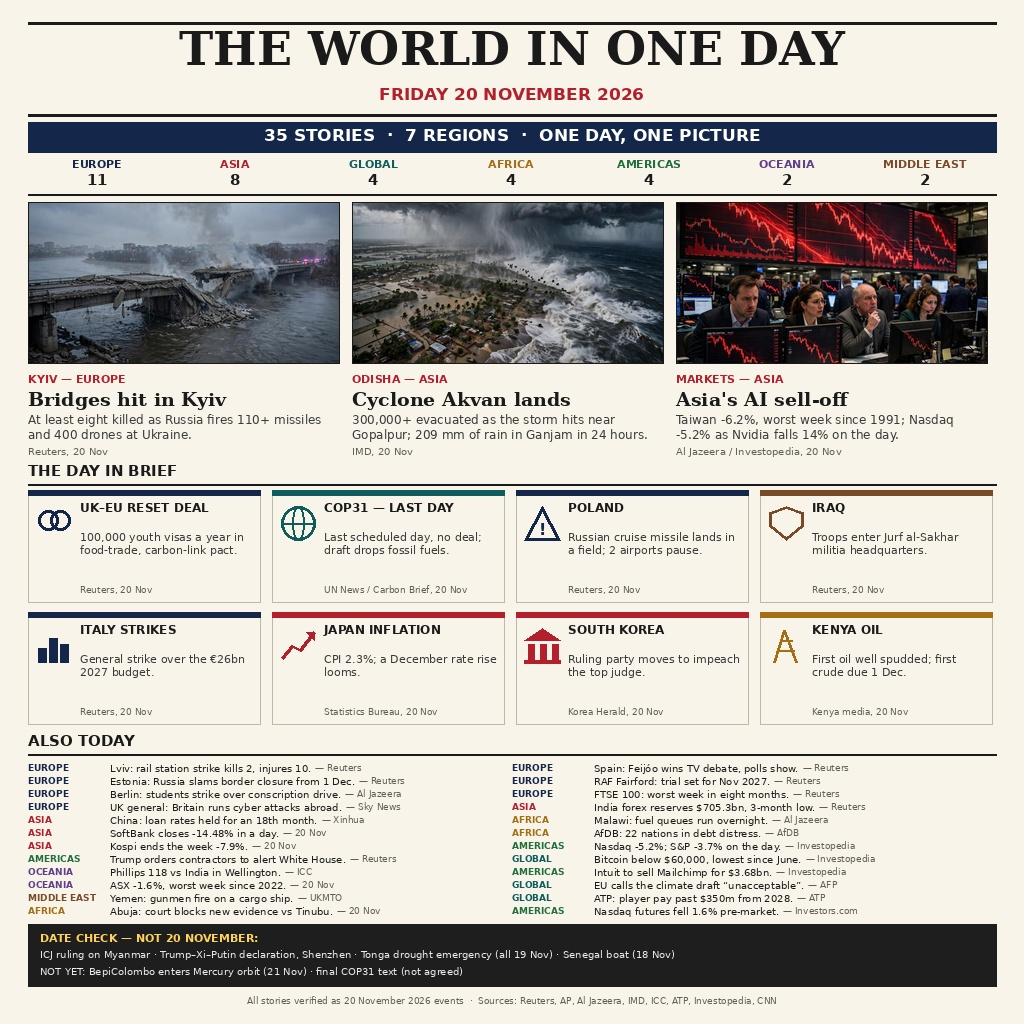
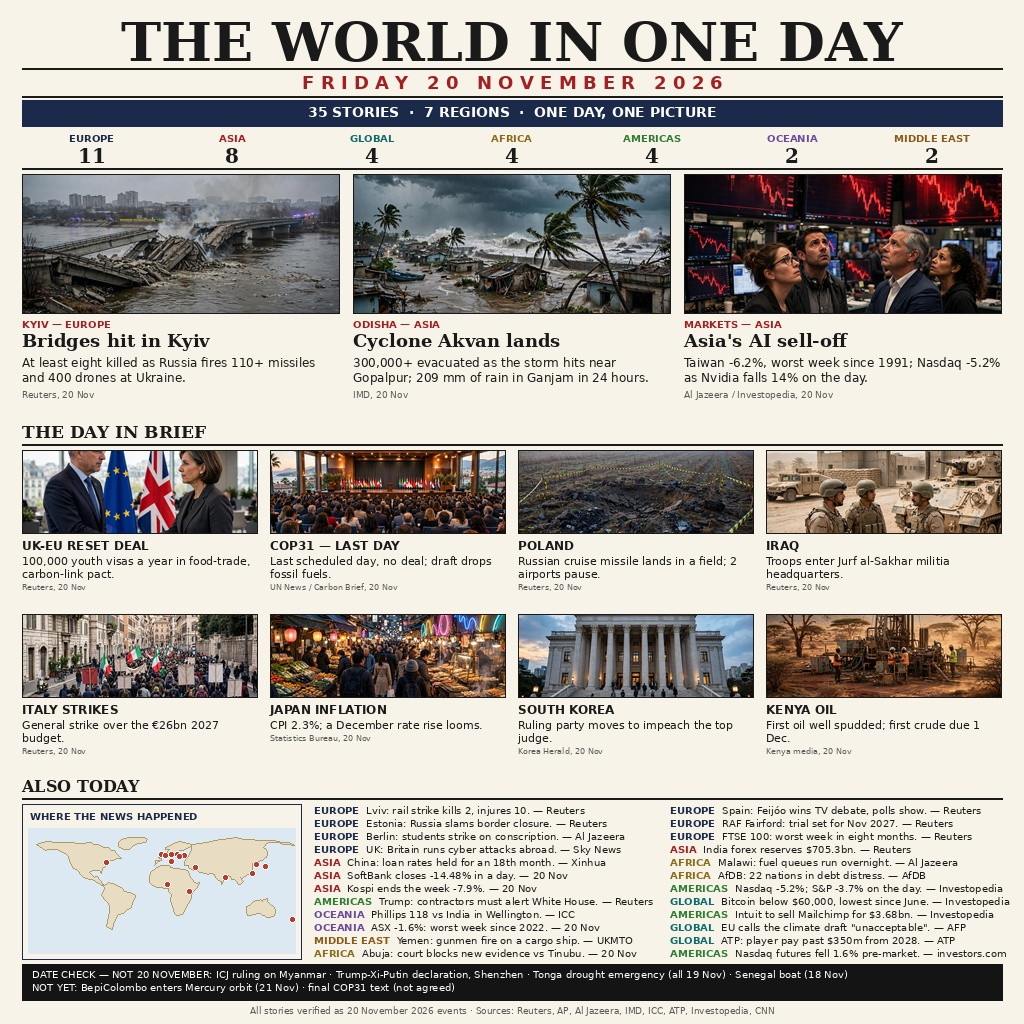
Update entry.png, main.py, and README.md (v4)

diff --git a/main.py b/main.py
@@ -1,8 +1,11 @@
 #!/usr/bin/env python3
-"""news-image-20261120 v3 — acct2 (Orochim25).
+"""news-image-20261120 v4 — acct2 (Orochim25).
 
 Copies the pre-built entry.png (in this repository's root) into
 $MAKEFUN_OUTPUT_DIR/entry.png (default /output).
+
+v4: 11 AI photographs (3 heroes + 8 grid scenes) and a world map with
+fixed lat/lon dots in the bottom-left corner; 35 verified stories.
 
 Standard library only: no third-party imports, no network.
 """
@@ -30,6 +33,11 @@ def main():
     os.makedirs(out_dir, exist_ok=True)
     dst = os.path.join(out_dir, "entry.png")
     shutil.copyfile(src, dst)
+    # Verify the copy byte-for-byte before reporting success.
+    dst_sha = hashlib.sha256(open(dst, "rb").read()).hexdigest()
+    if dst_sha != sha:
+        print("copy mismatch: %s != %s" % (dst_sha, sha), file=sys.stderr)
+        return 1
     print("wrote %s (%d bytes, sha256 %s)" % (dst, size, sha))
     return 0
 

diff --git a/README.md b/README.md
@@ -1,15 +1,13 @@
-# Friday 20 November 2026: 35 stories, 7 regions — Kyiv bridges hit, Cyclone Akvan lands, Asia's AI sell-off, UK-EU reset
+# The World in One Day — Friday 20 November 2026
 
-[![make.fun](https://make.fun/badge/news-image-20261120.svg)](https://make.fun/bounty/news-image-20261120)
+[![news-image-20261120](https://make.fun/badge/news-image-20261120.svg)](https://make.fun/bounty/news-image-20261120)
 [![rank](https://make.fun/badge/news-image-20261120/Orochim25/news-image-20261120-entry-acct2-v2/rank.svg)](https://make.fun/bounty/news-image-20261120)
 [![reward](https://make.fun/badge/news-image-20261120/Orochim25/news-image-20261120-entry-acct2-v2/reward.svg)](https://make.fun/bounty/news-image-20261120)
 
-A newspaper front page for one day: **Friday 20 November 2026, 35 verified stories from 7 regions** — Europe 11, Asia 8, Global 4, Africa 4, Americas 4, Oceania 2, Middle East 2.
+A newspaper front page picturing **35 verified stories from Friday 20 November 2026, across 7 regions** — Europe 11, Asia 8, Global 4, Africa 4, Americas 4, Oceania 2, Middle East 2.
 
-Three photographic heroes lead the page: Russian missiles hit three bridges in Kyiv (at least eight killed across Ukraine, Reuters), Cyclone Akvan makes landfall near Gopalpur with 300,000+ evacuated (IMD), and Asia's AI sell-off — Taiwan −6.2%, its worst week since 1991 (Al Jazeera). An illustrated grid and a 24-item "Also Today" list cover the rest of the day, every figure carrying its source and date.
+Three photographic heroes lead the page: bridges hit in Kyiv (at least eight killed), Cyclone Akvan's landfall near Gopalpur (300,000+ evacuated), and Asia's AI sell-off (Taiwan −6.2%, worst week since 1991). All eight "Day in Brief" scenes are AI photographs too, followed by 24 more stories and a date-check box that keeps 19 November events — and not-yet events — out of the picture.
 
-A date-check box keeps the record honest: four big stories from Thursday 19 November (the ICJ ruling on Myanmar, the Trump–Xi–Putin declaration in Shenzhen, Tonga's drought emergency, the Senegal boat) are excluded, and two things that had not happened yet — BepiColombo's Mercury orbit insertion and the final COP31 text — are not claimed.
+A small world map in the bottom-left corner, "Where the news happened", plots 16 story locations as dots at their fixed latitude/longitude coordinates — Kyiv, Gopalpur, Taipei, Seoul, Tokyo, London, Brussels, Warsaw, Rome, Nairobi, Wellington, New York, Lviv, Berlin, Abuja and Baghdad.
 
-## How it runs
-
-`main.py` (Python standard library only) copies `entry.png` into `$MAKEFUN_OUTPUT_DIR/entry.png` (default `/output`), refusing to copy if the file exceeds the 1,048,576-byte limit.
+Every figure is attributed to its source (Reuters, AP, Al Jazeera, IMD, ICC, ATP, Investopedia, CNN). The program (`main.py`, standard library only) copies `entry.png` into the output directory.
